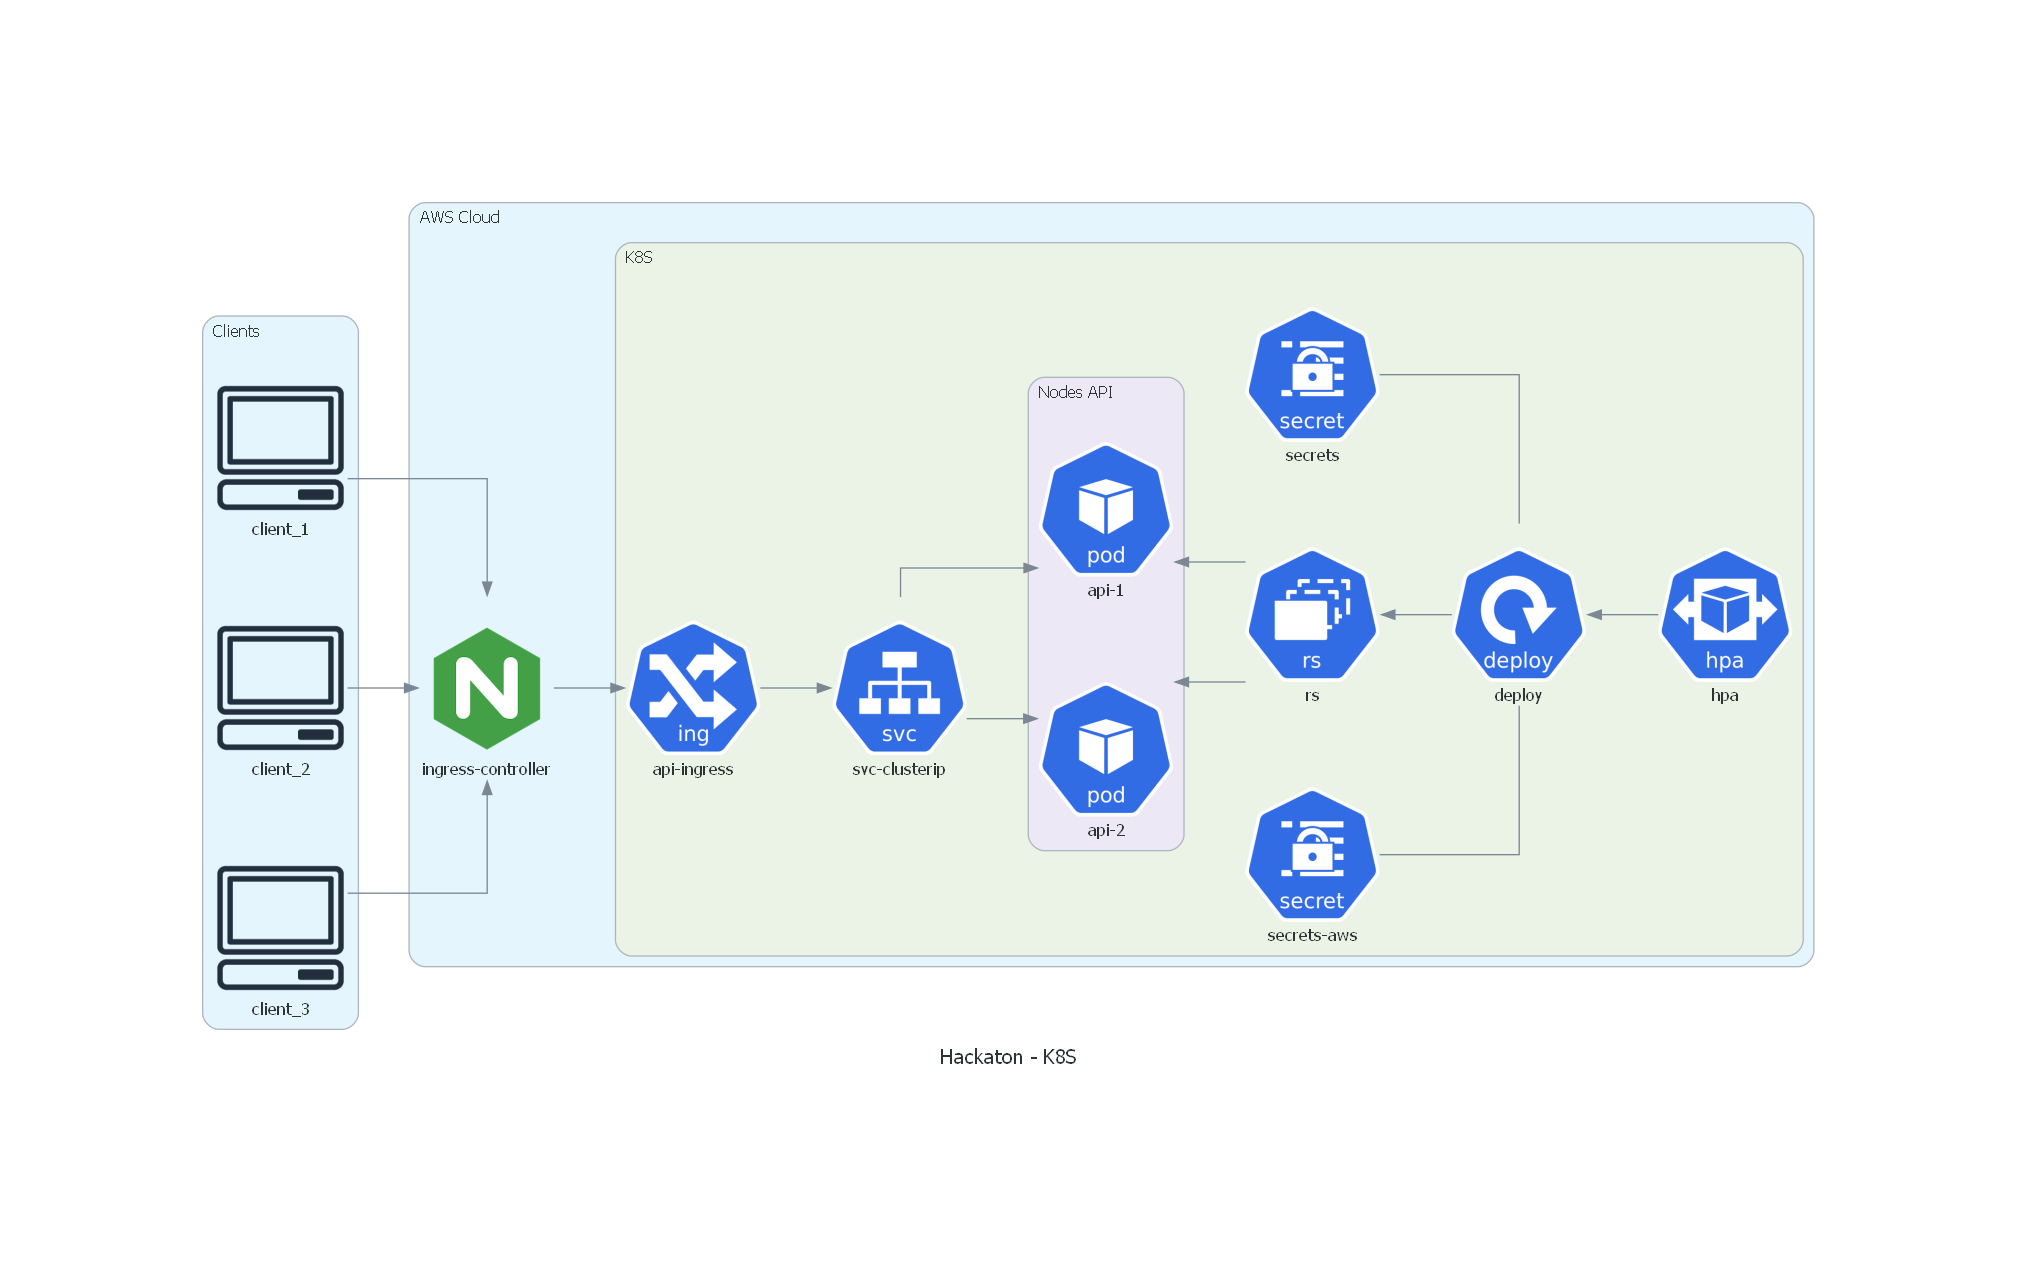
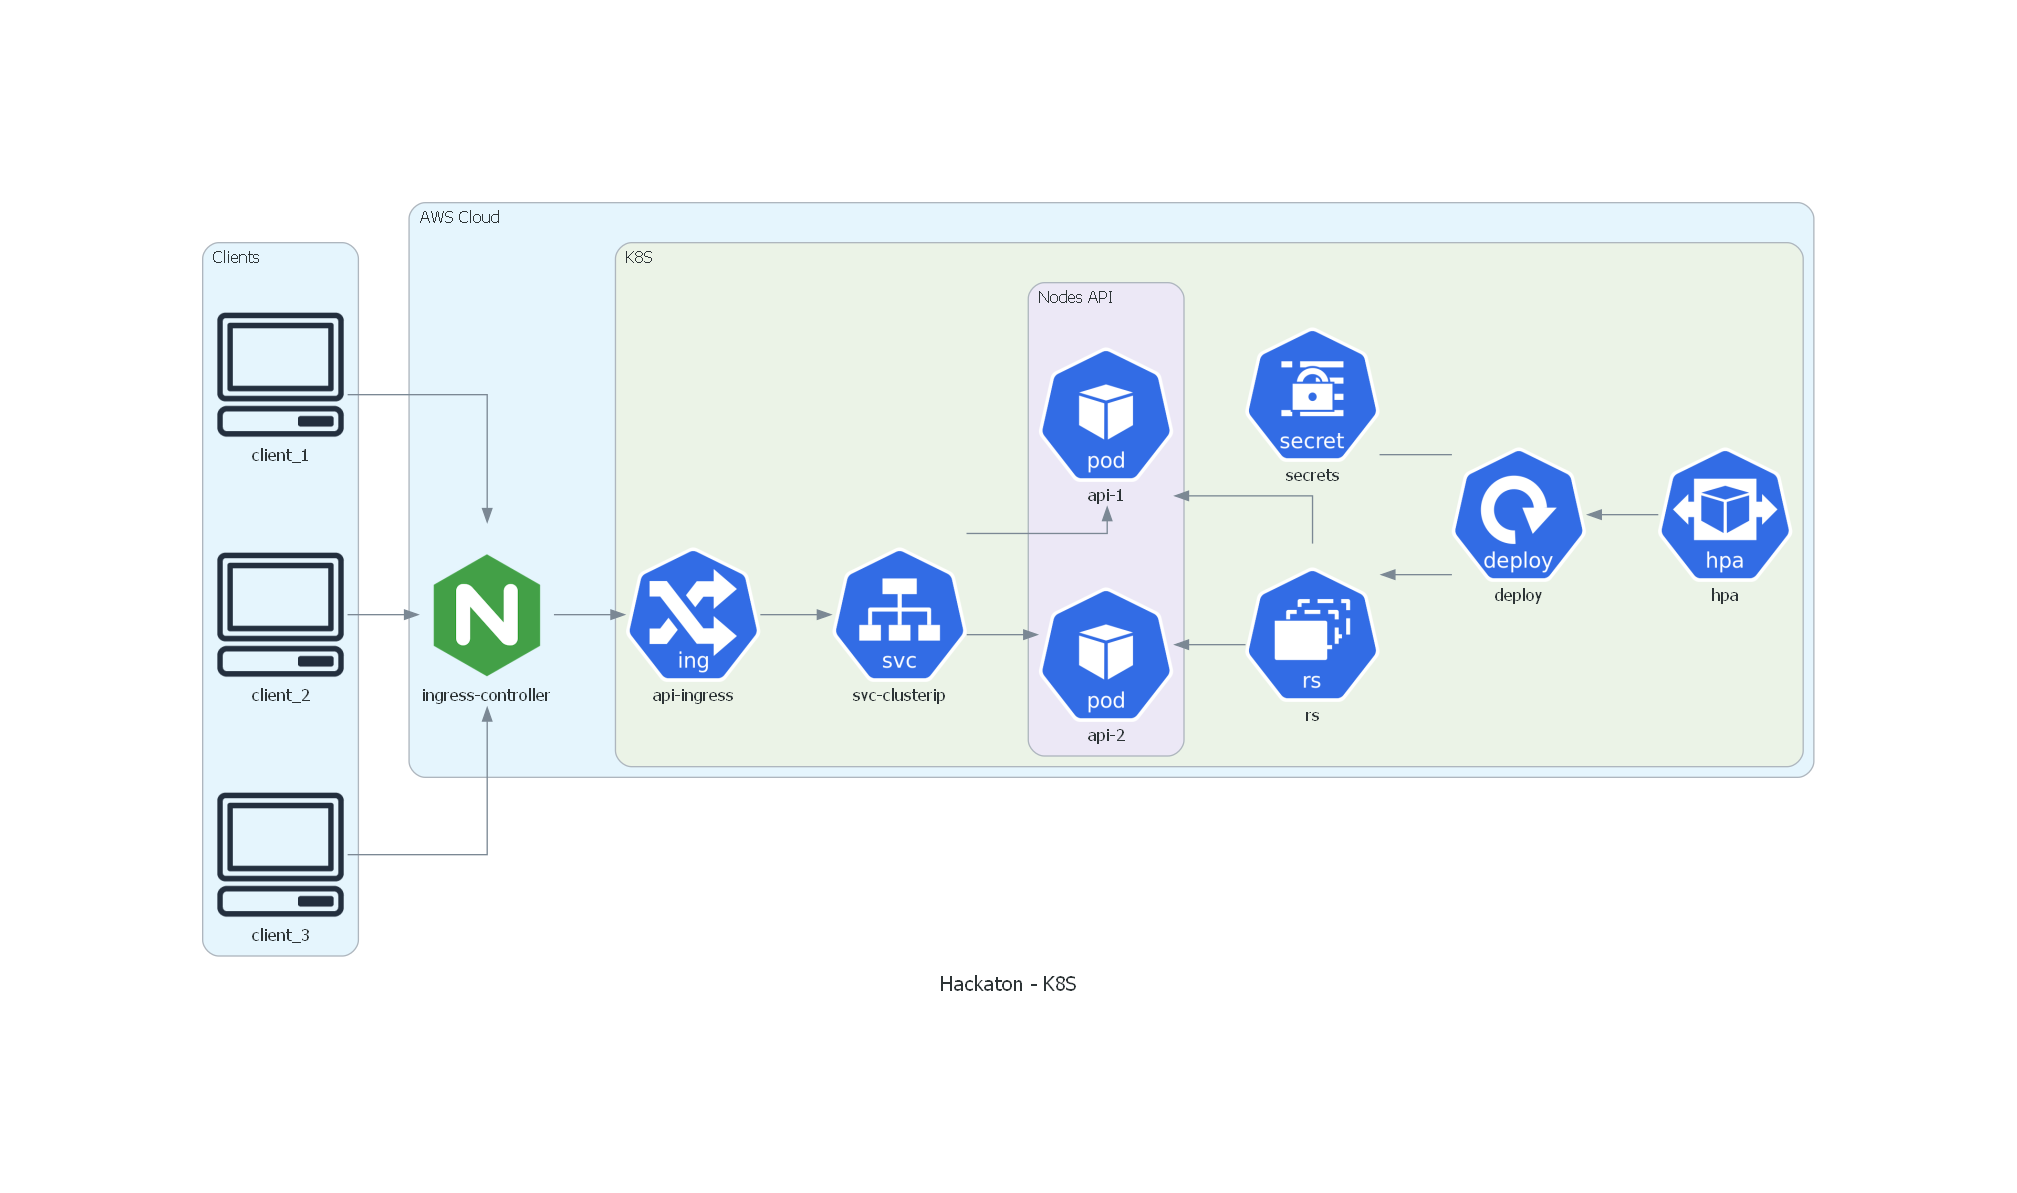
feat: ajustes

diff --git a/src/Presentation/HT.Api/Commons/Config/SwaggerConfig.cs b/src/Presentation/HT.Api/Commons/Config/SwaggerConfig.cs
@@ -1,6 +1,5 @@
 using System.Reflection;
 using Microsoft.OpenApi.Models;
-using Swashbuckle.AspNetCore.SwaggerGen;
 
 namespace HT.Api.Commons.Config;
 
@@ -39,11 +38,6 @@ public static class SwaggerConfig
                     new string[] { }
                 }
             });
-
-            if (!env.IsDevelopment())
-            {
-                c.DocumentFilter<PrefixDocumentFilter>();
-            }
         });
 
         return services;
@@ -55,20 +49,5 @@ public static class SwaggerConfig
         app.UseSwaggerUI();
 
         return app;
-    }
-}
-
-public class PrefixDocumentFilter : IDocumentFilter
-{
-    public void Apply(OpenApiDocument swaggerDoc, DocumentFilterContext context)
-    {
-        var paths = new OpenApiPaths();
-
-        foreach (var path in swaggerDoc.Paths)
-        {
-            paths.Add("/pedido" + path.Key, path.Value);
-        }
-
-        swaggerDoc.Paths = paths;
     }
 }

diff --git a/docs/diagramas/diagrama_k8s.py b/docs/diagramas/diagrama_k8s.py
@@ -29,12 +29,9 @@ with Diagram("Hackaton - K8S", filename="diagrama_k8s", outformat=["png"], show=
             replicaSet = ReplicaSet("rs")
             deployment = Secret("secrets") - Deployment("deploy")
             hpa = HPA("hpa")
-            secret_aws = Secret("secrets-aws")
 
 
     clients >> ingress_controller >> ingress
     ingress >> svc_api
-
-    secret_aws - deployment
     
     svc_api >> pods_api << replicaSet << deployment << hpa
